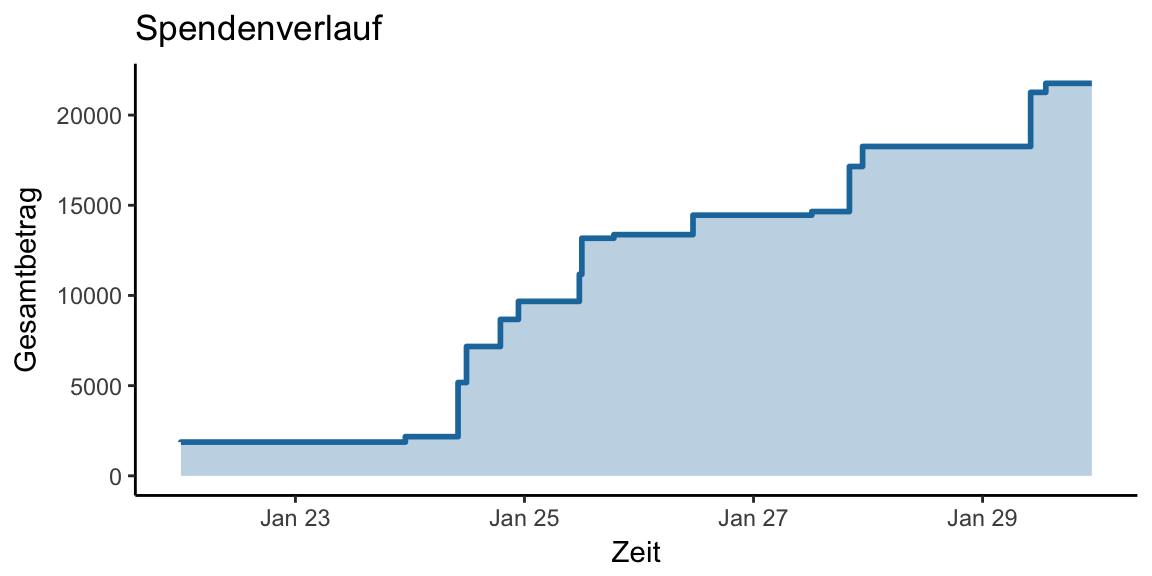
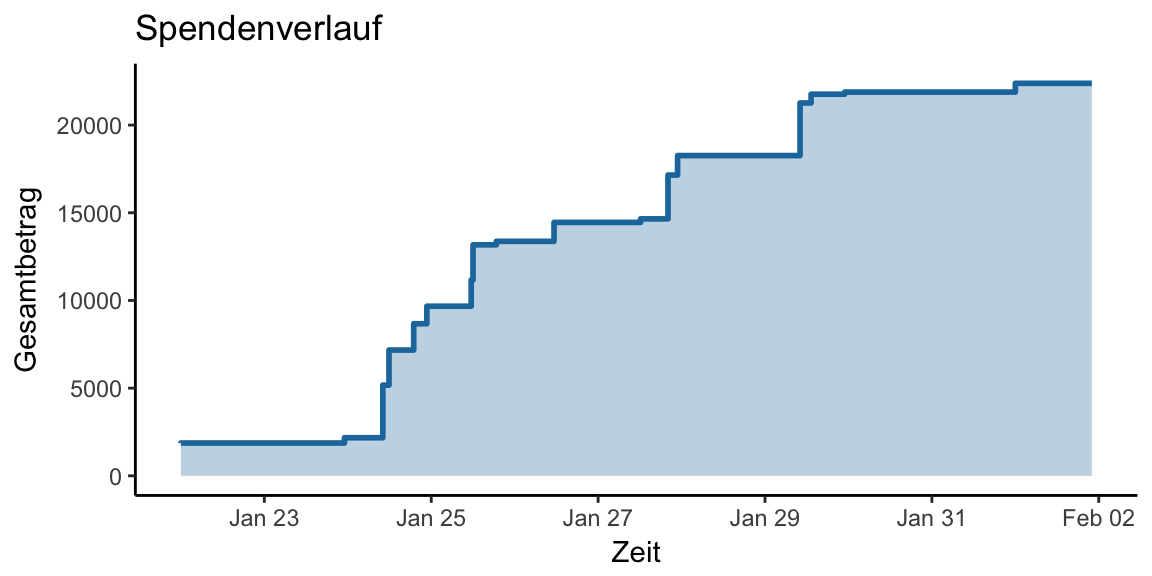
vision and Lama Ole

diff --git a/Results.html b/Results.html
@@ -179,6 +179,13 @@ $(document).ready(function () {
     <div id="navbar" class="navbar-collapse collapse">
       <ul class="nav navbar-nav">
         <li>
+  <a href="vision.html">
+    <span class="fa fa-credit-card"></span>
+     
+    Vision
+  </a>
+</li>
+<li>
   <a href="https://goo.gl/forms/Fc0KR7Lh6EDNn5Bt1">
     <span class="fa fa-credit-card"></span>
      
@@ -186,7 +193,7 @@ $(document).ready(function () {
   </a>
 </li>
 <li>
-  <a href="Results.html">
+  <a href="results.html">
     <span class="fa fa-line-chart"></span>
      
     Spendenstand
@@ -217,7 +224,7 @@ $(document).ready(function () {
 
 
 <p align="right" class="text-primary">
-Stand: 01.02.2018 17:44
+Stand: 02.02.2018 00:14
 </p>
 <p> </p>
 <p> </p>
@@ -255,19 +262,27 @@ Spende bei Zuschlag
 </td>
 </tr>
 <tr>
+<td style="text-align:left;font-weight: bold;color: white;background-color: #E17E08;">
+Von Lama Ole
+</td>
+<td style="text-align:right;font-weight: bold;color: white;background-color: #E17E08;">
+500
+</td>
+</tr>
+<tr>
 <td style="text-align:left;">
 Für unser eigenes Zentrum
 </td>
 <td style="text-align:right;">
-1870
+1990
 </td>
 </tr>
 <tr>
-<td style="text-align:left;font-weight: bold;color: white;background-color: #E17E08;">
+<td style="text-align:left;font-weight: bold;color: white;background-color: #1F79AB;">
 Gesamt
 </td>
-<td style="text-align:right;font-weight: bold;color: white;background-color: #E17E08;">
-21761
+<td style="text-align:right;font-weight: bold;color: white;background-color: #1F79AB;">
+22381
 </td>
 </tr>
 </tbody>
@@ -277,7 +292,7 @@ Gesamt
 <div class="card text-white bg-primary mb-3" style="max-width: 80rem;">
   <div class="card-body" align="center">
     &nbsp;
-    <p class="card-text" align="center"> <b>13</b> Leute haben bisher <b>21761 €</b> gespendet oder zugesagt!</p>
+    <p class="card-text" align="center"> <b>13</b> Leute haben bisher <b>22381 €</b> gespendet oder zugesagt!</p>
     &nbsp; 
   </div>
 </div>
@@ -286,7 +301,7 @@ Gesamt
 </div>
 <div id="spendenverlauf" class="section level2">
 <h2>Spendenverlauf</h2>
-<p><img src="Results_files/figure-html/unnamed-chunk-6-1.png" width="576" style="display: block; margin: auto;" /></p>
+<p><img src="results_files/figure-html/unnamed-chunk-6-1.png" width="576" style="display: block; margin: auto;" /></p>
 </div>
 
 

diff --git a/vision.html b/vision.html
@@ -11,7 +11,7 @@
 
 
 
-<title>Eigenes Zentrum Dresden</title>
+<title>Unsere Vision</title>
 
 <script src="site_libs/jquery-1.11.3/jquery.min.js"></script>
 <meta name="viewport" content="width=device-width, initial-scale=1" />
@@ -218,32 +218,13 @@ $(document).ready(function () {
 
 
 
-<h1 class="title toc-ignore">Eigenes Zentrum Dresden</h1>
+<h1 class="title toc-ignore">Unsere Vision</h1>
 
 </div>
 
 
- 
-<p align="center">
-<img src="content/IMG_3716.jpg"  width="700px">
-</p>
-<p> </p>
-<p>Liebe Freunde,</p>
-<p align="justify">
-um unseren Traum von einem <strong>eigenen buddhistischen Zentrum in Dresden</strong> wahr werden zu lassen brauchen wir auch die nötigen finanziellen Mittel. Hier bitten wir euch um Spenden oder Zusagen für den Fall, das wir das geplante Objekt, der Dorothea-Erxleben-Straße 2 zugesprochen bekommen.
-</p>
-<p>Wir brauchen insgesamt einen Betrag von mindestens <strong>150 000 €</strong> für die Anfangsfinanzierung eines Kredites, den wir dann über unsere Mieten abbezahlen wollen.</p>
-<p>Bitte teilt uns mit wieviel ihr geben wollt in dem ihr unser <a href="https://goo.gl/forms/Fc0KR7Lh6EDNn5Bt1"><i class="fa fa-credit-card" aria-hidden="true"></i> Google Form</a> ausfüllt. Weiter gibt es die Möglichkeit uns direkt zu kontaktieren: <a href="mailto:dresden@diamondway-center.org">dresden@diamondway-center.org</a></p>
-<p>Weitere Informationen findet ihr in der Titelleiste:</p>
-<ul>
-<li>Den aktuellen <a href="Results.html"><i class="fa fa-line-chart" aria-hidden="true"></i> Spendenstand</a></li>
-<li><a href="ueberweisung.html"><i class="fa fa-info" aria-hidden="true"></i> Informationen zur Überweisung</a></li>
-</ul>
-<p> </p>
-<p> </p>
-<p align="center">
-<img src="content/DSC_1030.jpg"  width="500px">
-</p>
+<p><br><br> <img src="content/Dorothea-Erxleben-Skizze_web.jpg"  width="800px"  align="middle"/></p>
+<p>Das geplante Haus mit mit geplanter separater Gompa.</p>
 
 
 

diff --git a/ueberweisung.html b/ueberweisung.html
@@ -179,6 +179,13 @@ $(document).ready(function () {
     <div id="navbar" class="navbar-collapse collapse">
       <ul class="nav navbar-nav">
         <li>
+  <a href="vision.html">
+    <span class="fa fa-credit-card"></span>
+     
+    Vision
+  </a>
+</li>
+<li>
   <a href="https://goo.gl/forms/Fc0KR7Lh6EDNn5Bt1">
     <span class="fa fa-credit-card"></span>
      
@@ -186,7 +193,7 @@ $(document).ready(function () {
   </a>
 </li>
 <li>
-  <a href="Results.html">
+  <a href="results.html">
     <span class="fa fa-line-chart"></span>
      
     Spendenstand
